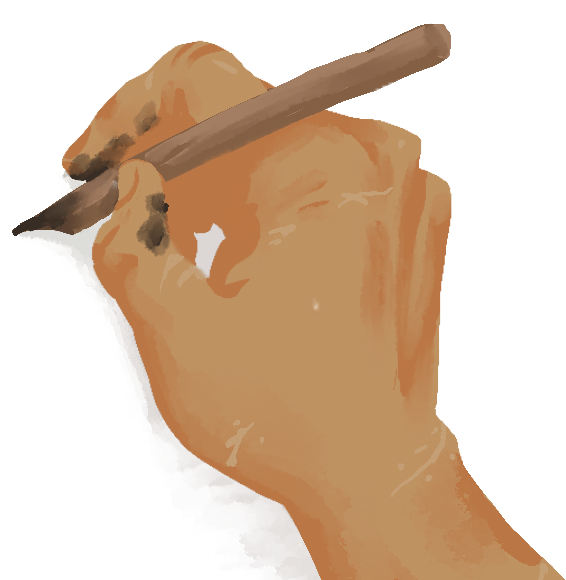
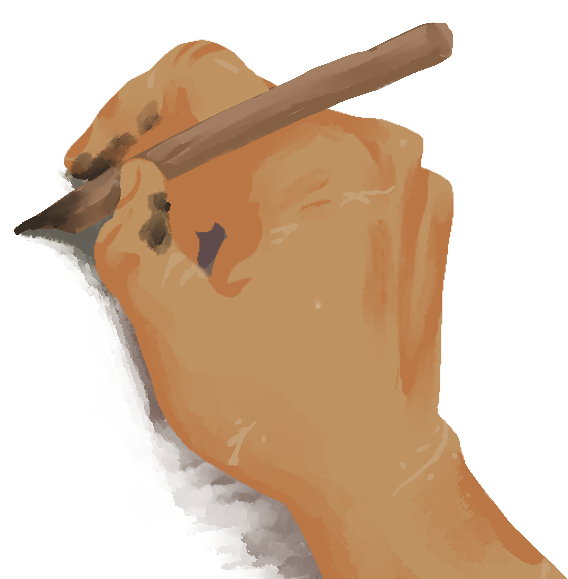
debug

diff --git a/web_export/style.css b/web_export/style.css
@@ -122,6 +122,7 @@ h2 {
     margin-left: 65%;
     margin-top: -16%;
     overflow: visible;
+    background-color: tranparent !important;
 }
 
 @media screen and (prefers-reduced-motion: no-preference) {
@@ -186,6 +187,7 @@ img {
     margin: auto;
     display: block;
     max-width: 66.5%;
+    background-color: transparent;
 }
 
 .container .hide {
